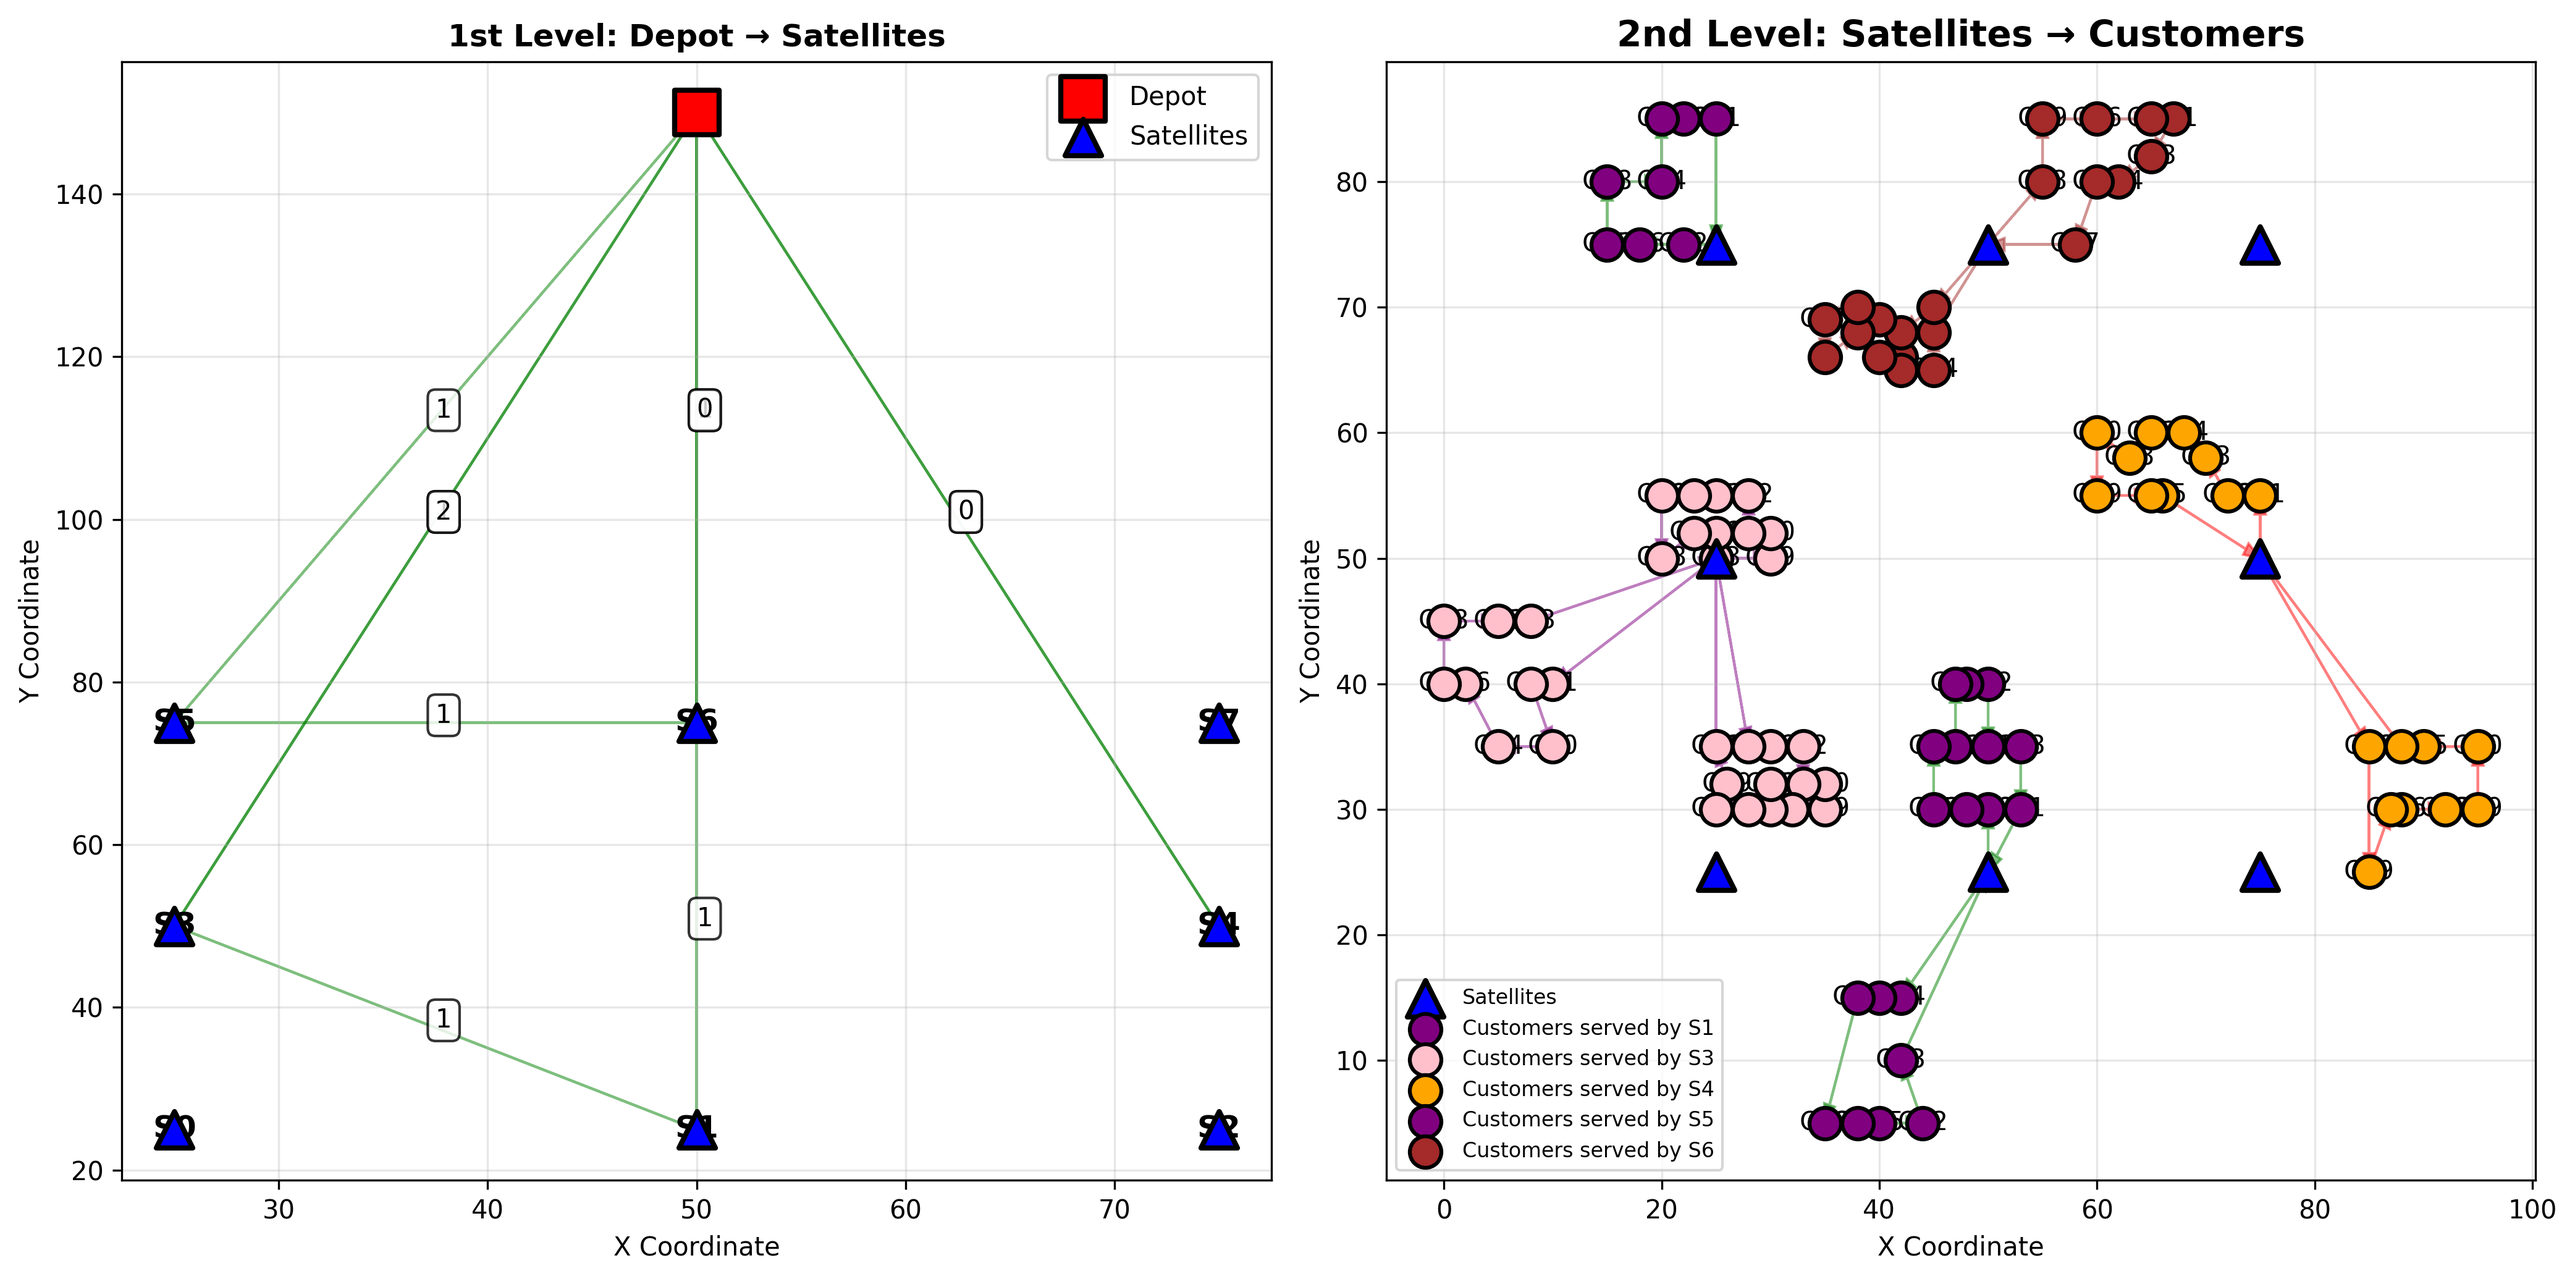
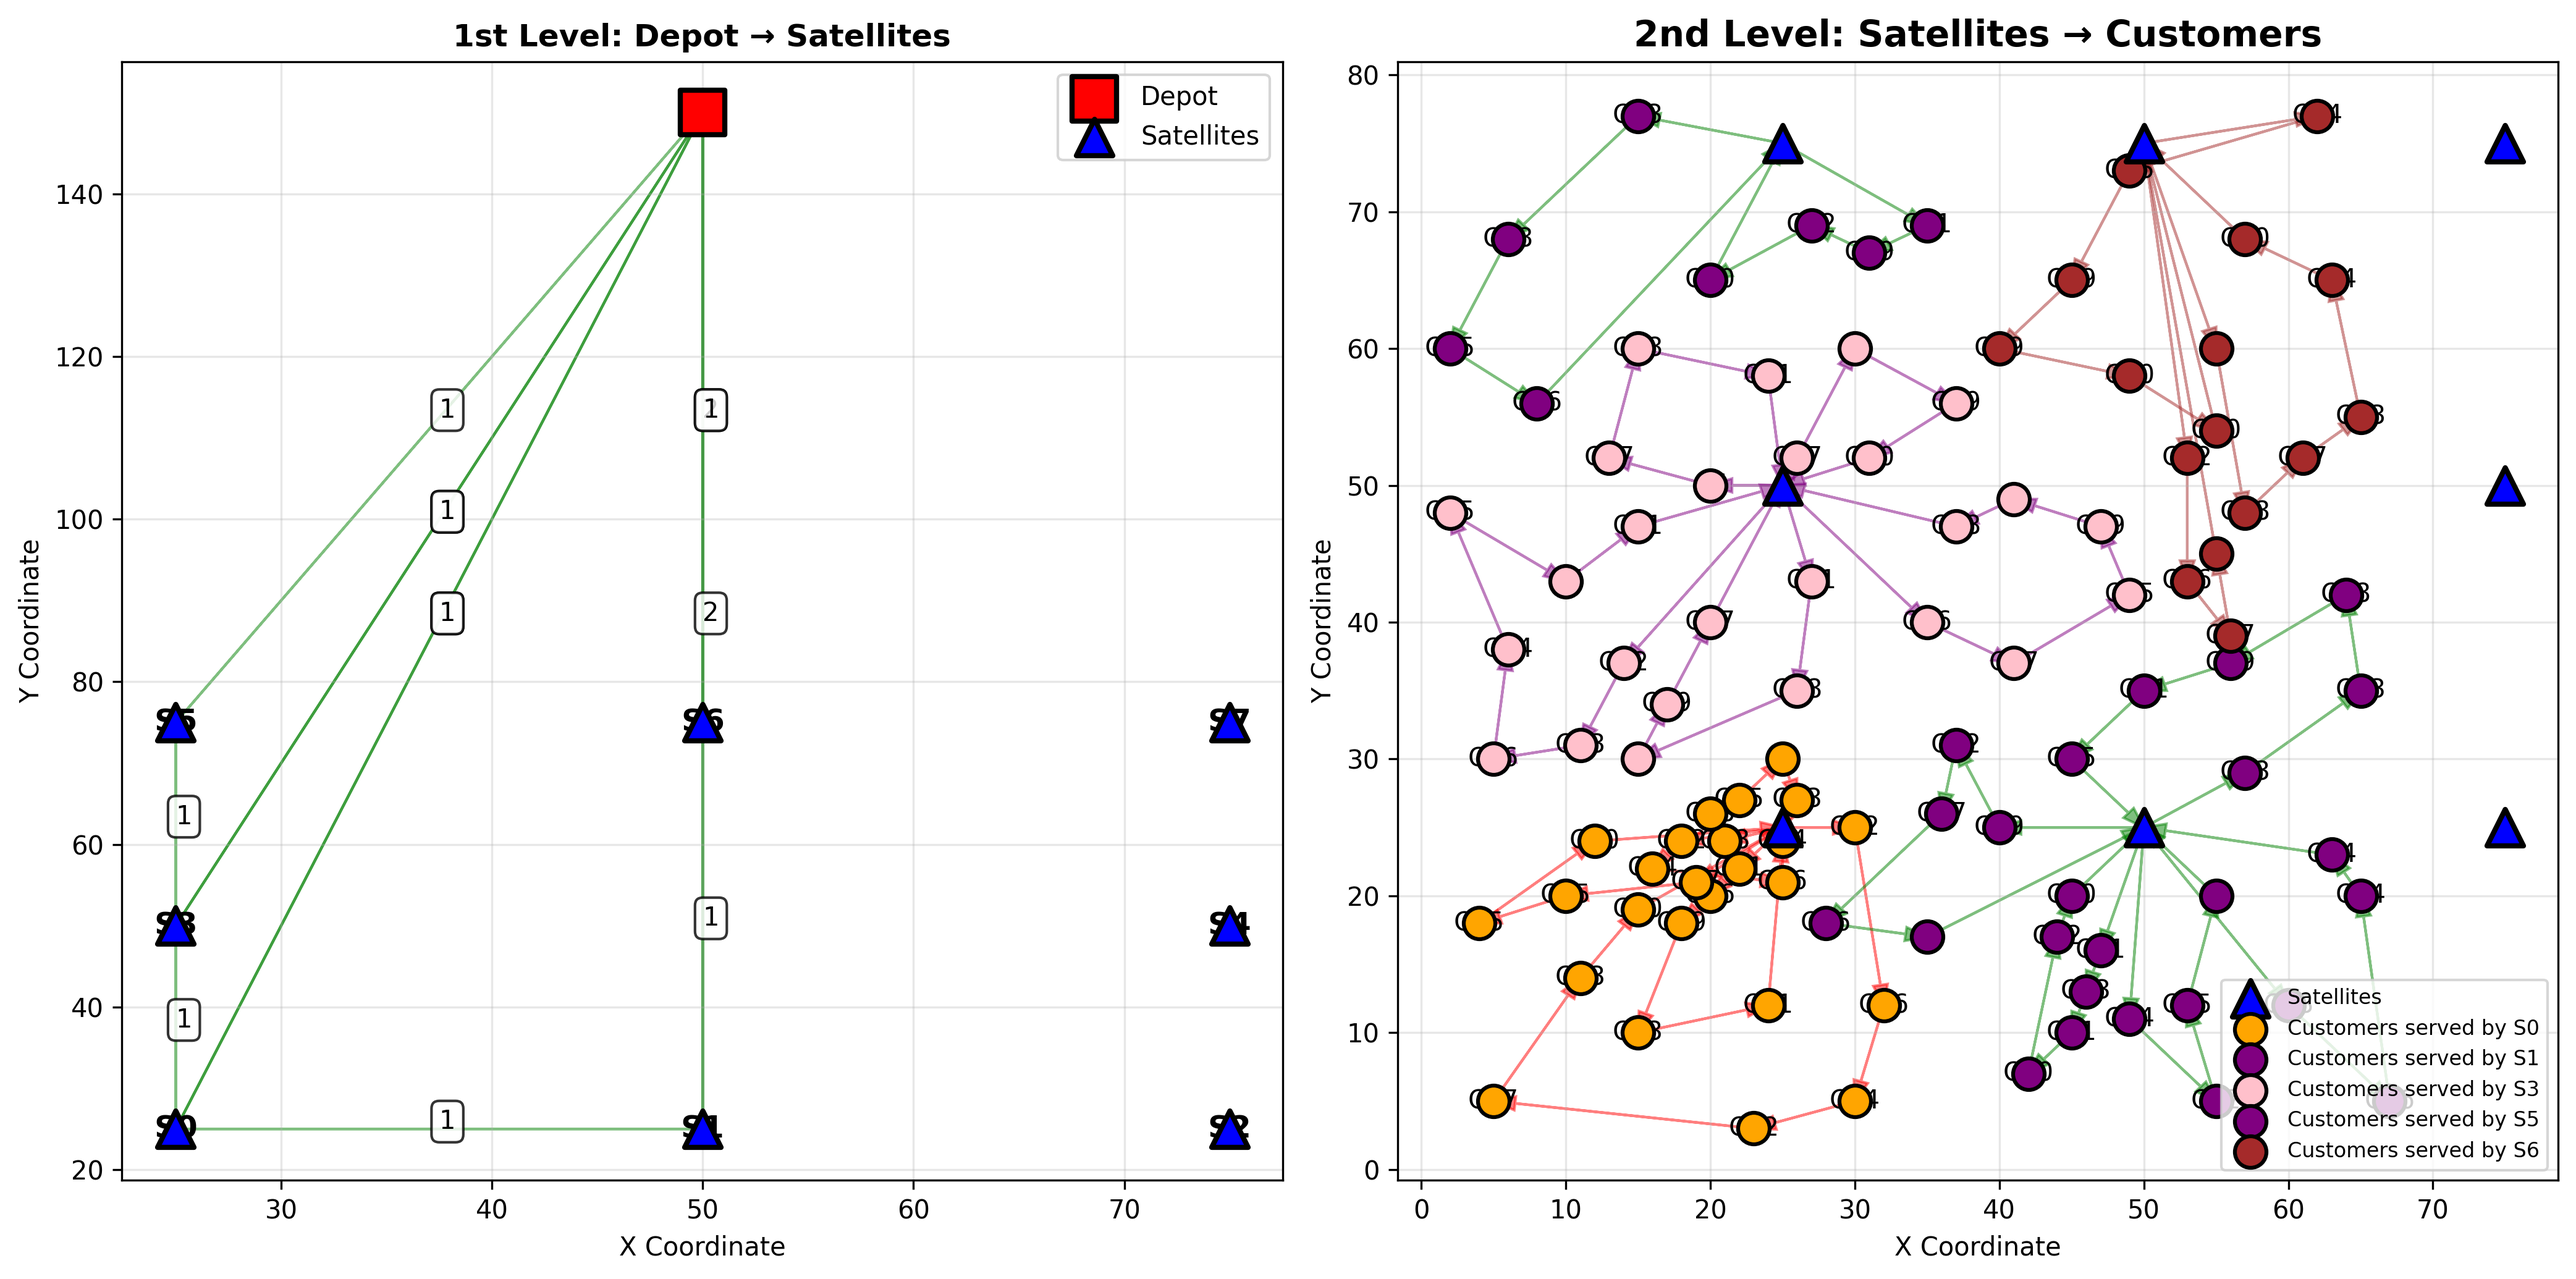
update

diff --git a/dataset_processer.py b/dataset_processer.py
@@ -45,9 +45,9 @@ def parse_file(filepath):
 
             # Vehicle capacities
             # 1st level vehicles are larger (e.g., trucks)
-            capacity_1st_level = 150
+            capacity_1st_level = 300
             # 2nd level vehicles are smaller (e.g., vans for city delivery)
-            capacity_2nd_level = 30
+            capacity_2nd_level = 80
 
             # Number of available vehicles
             num_vehicles_1st = 7  # Vehicles at depot
